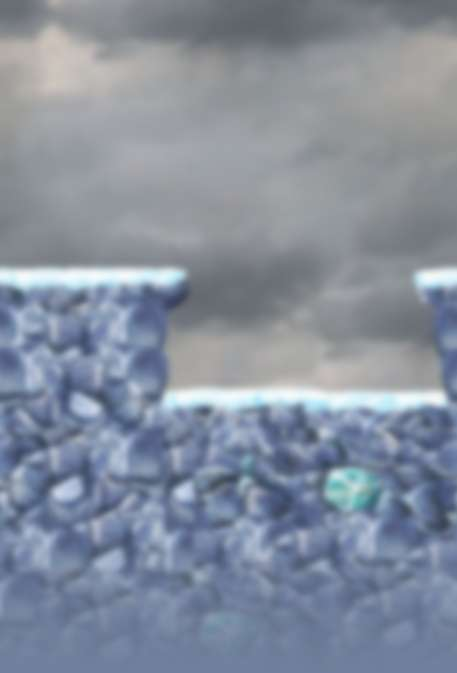
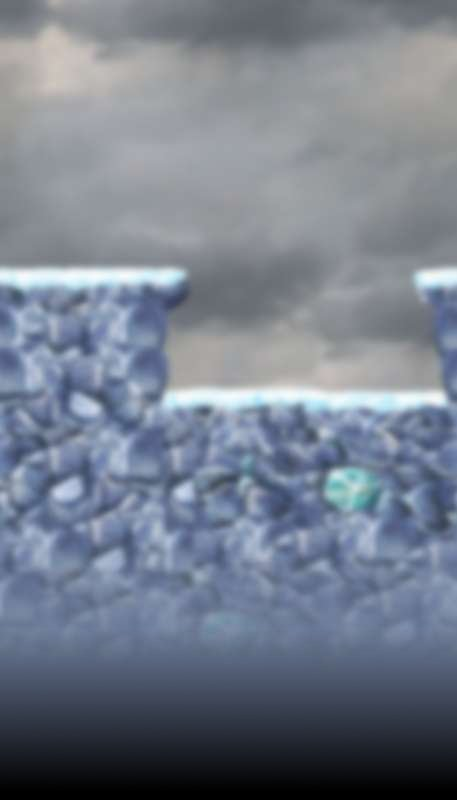
New background image

diff --git a/default.css b/default.css
@@ -1,3 +1,15 @@
+body
+{
+  font-family: sans;
+  background-position: left top;
+  background-image: url("images/snow_background.jpg");
+  background-repeat: repeat-x;
+  background-color: black;
+  background-attachment:fixed;
+  color: black;
+  /* desert #cdb09e; */
+}
+
 #pagebody
 { 
   width: 70em;
@@ -222,17 +234,6 @@ div.footer {
 
 div.footer a { 
   text-decoration: none;
-}
-
-body
-{
-  font-family: sans;
-  background-position: left top;
-  background-image: url(images/snow_background.jpg);
-  background-repeat: repeat-x;
-  background-color: #707f9b;
-  color: black;
-  /* desert #cdb09e; */
 }
 
 /* EOF */
